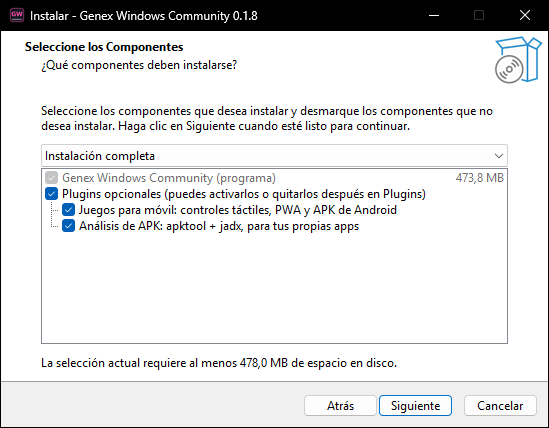
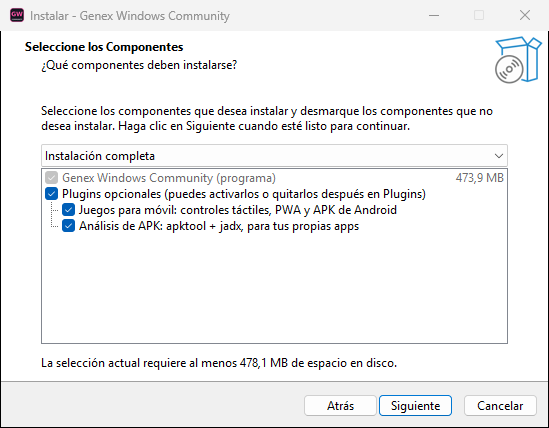
v0.1.8: capturas del asistente (bienvenida) y de la ventana de actualización

Changed region(s): [[0.0, 0.0, 1.0, 0.0911], [0.867, 0.3949, 0.898, 0.4252], [0.4645, 0.8201, 0.4954, 0.8505]]

diff --git a/docs/releases/v0.1.8.md b/docs/releases/v0.1.8.md
@@ -16,6 +16,7 @@ Una versión para Windows basada en el código base de [Genex](https://github.co
 Al abrir el `Setup` verás, paso a paso:
 
 1. **Idioma**: Español o English.
+   Después, la **bienvenida**: explica que es una versión para Windows basada en el código base de Genex, con algunas mejoras, no oficial, con el mérito del original para sus autores.
 2. **Para quién instalar**: solo para ti (recomendado, sin permisos de administrador) o para todos los usuarios (Archivos de programa).
 3. **Licencia MIT**: hay que marcar «Acepto el acuerdo».
 4. **Información**: qué es Genex Windows Community (fork no oficial, licencia MIT), cuánto ocupa, qué plugins trae y dónde guarda tus datos.
@@ -30,9 +31,9 @@ Al abrir el `Setup` verás, paso a paso:
 - Si actualizas sobre la misma carpeta, el asistente la recuerda. Cierra Genex antes de instalar (el asistente avisa si sigue abierto).
 - Instalación desatendida (para scripts): `GenexWindowsCommunity-Setup-0.1.8.exe /VERYSILENT /CURRENTUSER /COMPONENTS="main,plugins,plugins\mobile"`.
 
-| Información | Componentes | Final |
+| Bienvenida | Componentes | Final |
 | --- | --- | --- |
-| ![Información](https://raw.githubusercontent.com/pilahito/genex-windows/main/docs/screenshots/instalador-01-informacion.png) | ![Componentes](https://raw.githubusercontent.com/pilahito/genex-windows/main/docs/screenshots/instalador-02-componentes.png) | ![Final](https://raw.githubusercontent.com/pilahito/genex-windows/main/docs/screenshots/instalador-03-final.png) |
+| ![Bienvenida](https://raw.githubusercontent.com/pilahito/genex-windows/main/docs/screenshots/instalador-01-bienvenida.png) | ![Componentes](https://raw.githubusercontent.com/pilahito/genex-windows/main/docs/screenshots/instalador-02-componentes.png) | ![Final](https://raw.githubusercontent.com/pilahito/genex-windows/main/docs/screenshots/instalador-03-final.png) |
 
 El instalador no está firmado: SmartScreen puede avisar → «Más información» › «Ejecutar de todas formas».
 
@@ -46,6 +47,10 @@ Genex Windows Community ya se actualiza solo, **desde las releases de este repos
   - **Actualizar ahora**: descarga `GenexWindowsCommunity-Setup-X.exe`, comprueba que el **tamaño y el SHA-256** coinciden con los que publica GitHub para ese archivo, cierra Genex y ejecuta el instalador en modo silencioso en la misma carpeta (con los mismos plugins y accesos directos). Al terminar, Genex se vuelve a abrir. Si la comprobación falla, no ejecuta nada y te ofrece abrir la página de la release.
   - **Más tarde**: vuelve a preguntar en el próximo arranque.
   - **Omitir esta versión**: no vuelve a avisar de esa versión (sí de la siguiente).
+![Ventana «Hay una nueva versión»](https://raw.githubusercontent.com/pilahito/genex-windows/main/docs/screenshots/actualizacion-v018.png)
+
+*(Captura de prueba: una copia que se hace pasar por 0.1.6 encuentra la release v0.1.7.)*
+
 - **Versión portable (zip)**: «Actualizar ahora» abre la página de la release para descargar el zip nuevo.
 - **Ajustes › Acerca de**: botón **«Buscar actualizaciones»** (también en el menú Ayuda) y el interruptor **«Buscar actualizaciones al iniciar»** para desactivar la comprobación automática. Se guarda en `community.json` (`"updates": { "autoCheck": false }`).
 - La ventana de novedades no ejecuta scripts: el Markdown se muestra como texto con formato y los enlaces se abren en tu navegador.

diff --git a/README.md b/README.md
@@ -52,9 +52,9 @@ iOS necesita un Mac con Xcode.
 
 ### El asistente de instalación
 
-| Información | Componentes (plugins opcionales) | Final |
+| Bienvenida | Componentes (plugins opcionales) | Final |
 | --- | --- | --- |
-| ![Información](docs/screenshots/instalador-01-informacion.png) | ![Componentes](docs/screenshots/instalador-02-componentes.png) | ![Final](docs/screenshots/instalador-03-final.png) |
+| ![Bienvenida](docs/screenshots/instalador-01-bienvenida.png) | ![Componentes](docs/screenshots/instalador-02-componentes.png) | ![Final](docs/screenshots/instalador-03-final.png) |
 
 ### Compilarlo tú mismo
 
